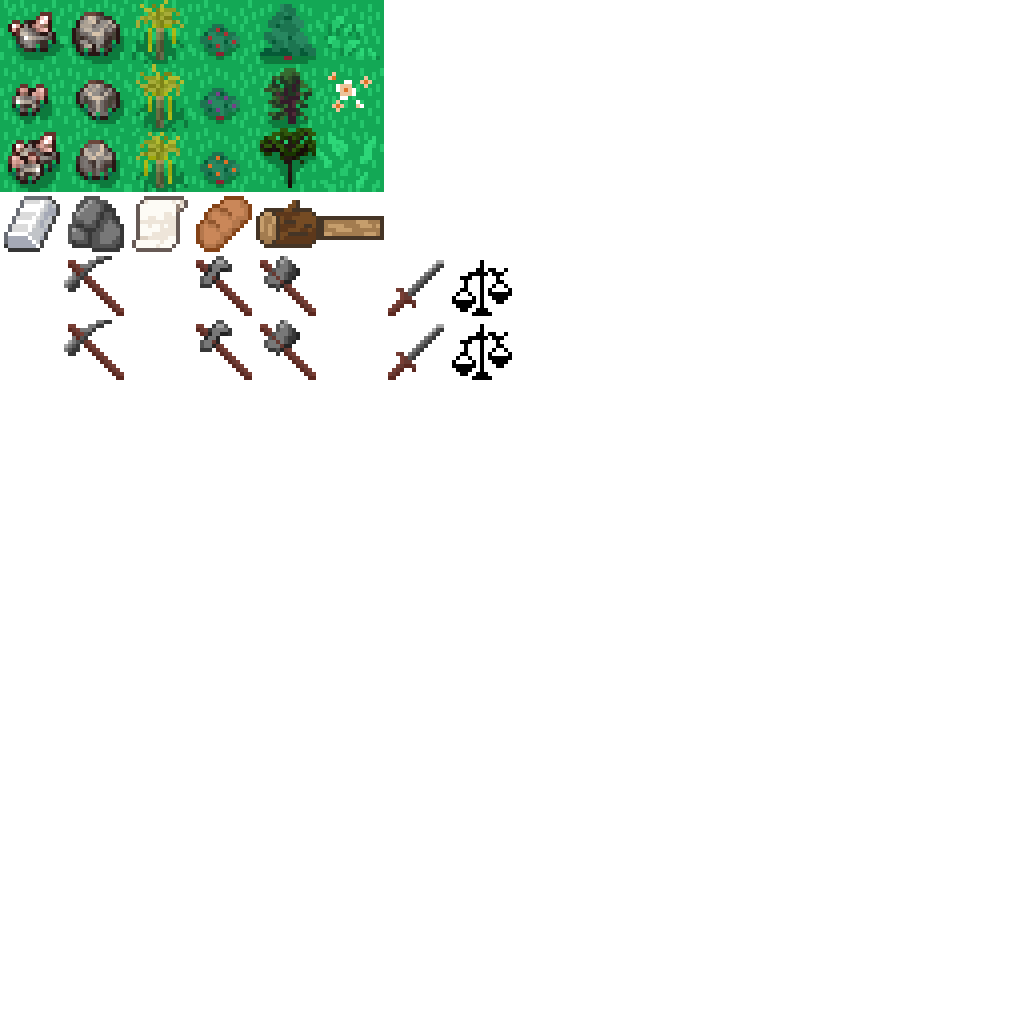
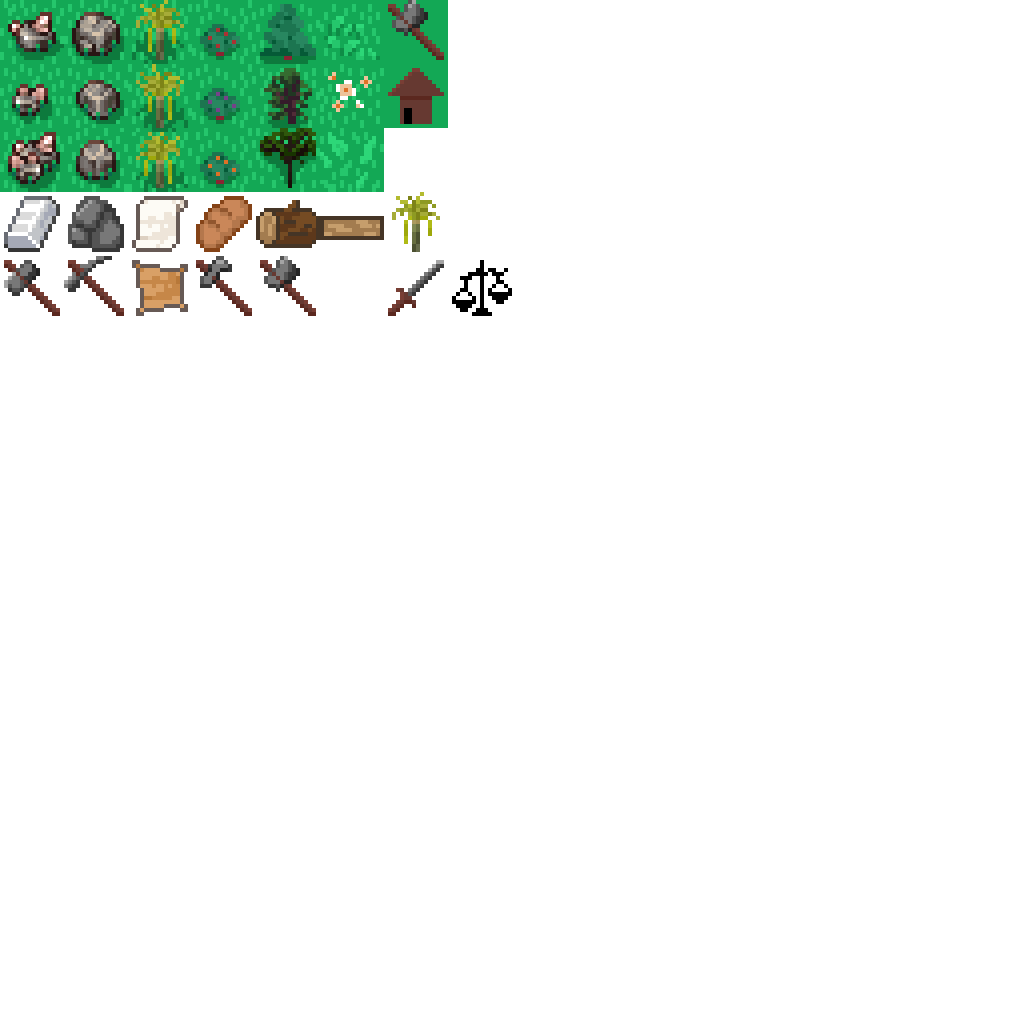
- Basic building is done

diff --git a/static/js/actions.js b/static/js/actions.js
@@ -13,8 +13,6 @@ function action(actionId) {
         return
     }
 
-    updateResource('idle', -1)
-
     switch (actionId) {
         case "collect":
             collect()
@@ -69,6 +67,8 @@ function collect() {
         return
     }
 
+    updateResource('idle', -1)
+
     tile.setAttribute('status', 'collecting')
     tile.setAttribute('status-start', new Date().getTime())
     tile.setAttribute('status-duration', 15)
@@ -83,6 +83,53 @@ function collect() {
         updateActionsMenu()
 
         updateResource(type, 1)
+        updateResource('idle', 1)
+    }, 15000)
+}
+
+function build(type) {
+    const tile = activeTile;
+
+    let requirements = {};
+
+    switch (type) {
+        case "house":
+            requirements.wood = 20
+
+            break;
+        
+        case "lumber-camp":
+            requirements.wood = 5
+
+            break;
+    }
+
+    for (const [key, val] of Object.entries(requirements)) {
+        if (userResources[key] < val) {
+            sendAlert('error', `You don't have enough ${key}.`)
+
+            return
+        }
+
+        updateResource(key, val * -1)
+    }
+
+    toggleBuildMenu()
+    updateResource('idle', -1)
+
+    tile.setAttribute('status', 'building')
+    tile.setAttribute('status-start', new Date().getTime())
+    tile.setAttribute('status-duration', 15)
+
+    updateActionsMenu()
+
+    setTimeout(() => {
+        tile.setAttribute('class', `tile ${type}-tile`)
+        tile.setAttribute('type', type)
+        tile.setAttribute('status', '')
+
+        updateActionsMenu()
+
         updateResource('idle', 1)
     }, 15000)
 }

diff --git a/static/js/class.js b/static/js/class.js
@@ -1,5 +1,5 @@
 // let userForaging = []; // default
-let userForaging = ['collect']
+let userForaging = ['collect', 'lumber-camp']
 let userFarming = [];
 let userMining = [];
 
@@ -8,14 +8,17 @@ let userResources = {
     gold: 0,
     citizens: 2,
     idle: 2,
-    wood: 0,
+    wood: 100,
     planks: 0,
     berry: 0,
     parchment: 0,
     stone: 0,
     iron: 0,
-    availableVillagers: 2,
+    house: 0,
+    lumberCamp: 0,
 }
+
+let citizens = [{name: "George", surname: "Dorchester", gender: "male", employment: null}, {name: "Patricia", surname: "Hamilton", gender: "female", employment: null}]
 
 let activeTab = "loading"
 
@@ -49,7 +52,7 @@ function loadTabContents(tabId) {
     if (tabId === 'city') {
         generateMap(1)
 
-        for ([key, val] of Object.entries(userResources)) {
+        for (const [key, val] of Object.entries(userResources)) {
             updateResource(key, 0)
         }
     }

diff --git a/static/js/ui.js b/static/js/ui.js
@@ -139,6 +139,11 @@ function updateActionsMenu() {
             addStatus("collecting")
 
             break;
+        case "building":
+            addDescription("A new building is being built here.")
+            addStatus("building")
+
+            break;
     }
 }
 
@@ -180,6 +185,11 @@ function addStatus(statusId) {
 }
 
 /* BUILD MENU */
+const buildMenu = document.getElementById('build-menu')
+
 function toggleBuildMenu() {
     disableMovement = !disableMovement
+
+    buildMenu.style.bottom = `${itemMenu.offsetHeight + 50}px`
+    buildMenu.classList.toggle('active')
 }

diff --git a/templates/app/class.html b/templates/app/class.html
@@ -48,7 +48,15 @@
 
     <div class="item-menu" id="item-menu">
         <span class="title">Title</span>
+        
         <div class="status"></div>
+    </div>
+
+    <div class="build-menu" id="build-menu">
+        <span class="title">Build</span>
+
+        <button onclick="build('house')">House</button>
+        <button onclick="build('lumber-camp')">Lumber camp</button>
     </div>
 
     <div class="tab active" id="loading-tab">

diff --git a/static/css/ui.css b/static/css/ui.css
@@ -182,3 +182,19 @@ button.action {
 .status-bar {
     background-color: #ddb479;
 }
+
+/* BUILD MENU */
+.build-menu {
+    position: fixed;
+    z-index: 9;
+    padding: 12.5px;
+    border-radius: 12.5px;
+    background-color: rgb(0, 0, 0, 0.8);
+    color: var(--tertiary-font-clr);
+    display: none;
+    right: 25px;
+    width: 20vw;
+}
+.build-menu.active {
+    display: block;
+}

diff --git a/static/css/map.css b/static/css/map.css
@@ -104,3 +104,12 @@ body, html {
 .iron-tile-3 {
     background-position: 0 -128px;
 }
+
+
+/* BUILDINGS */
+.lumber-camp-tile {
+    background-position: -386px 0px;
+}
+.house-tile {
+    background-position: -386px -64px;
+}
